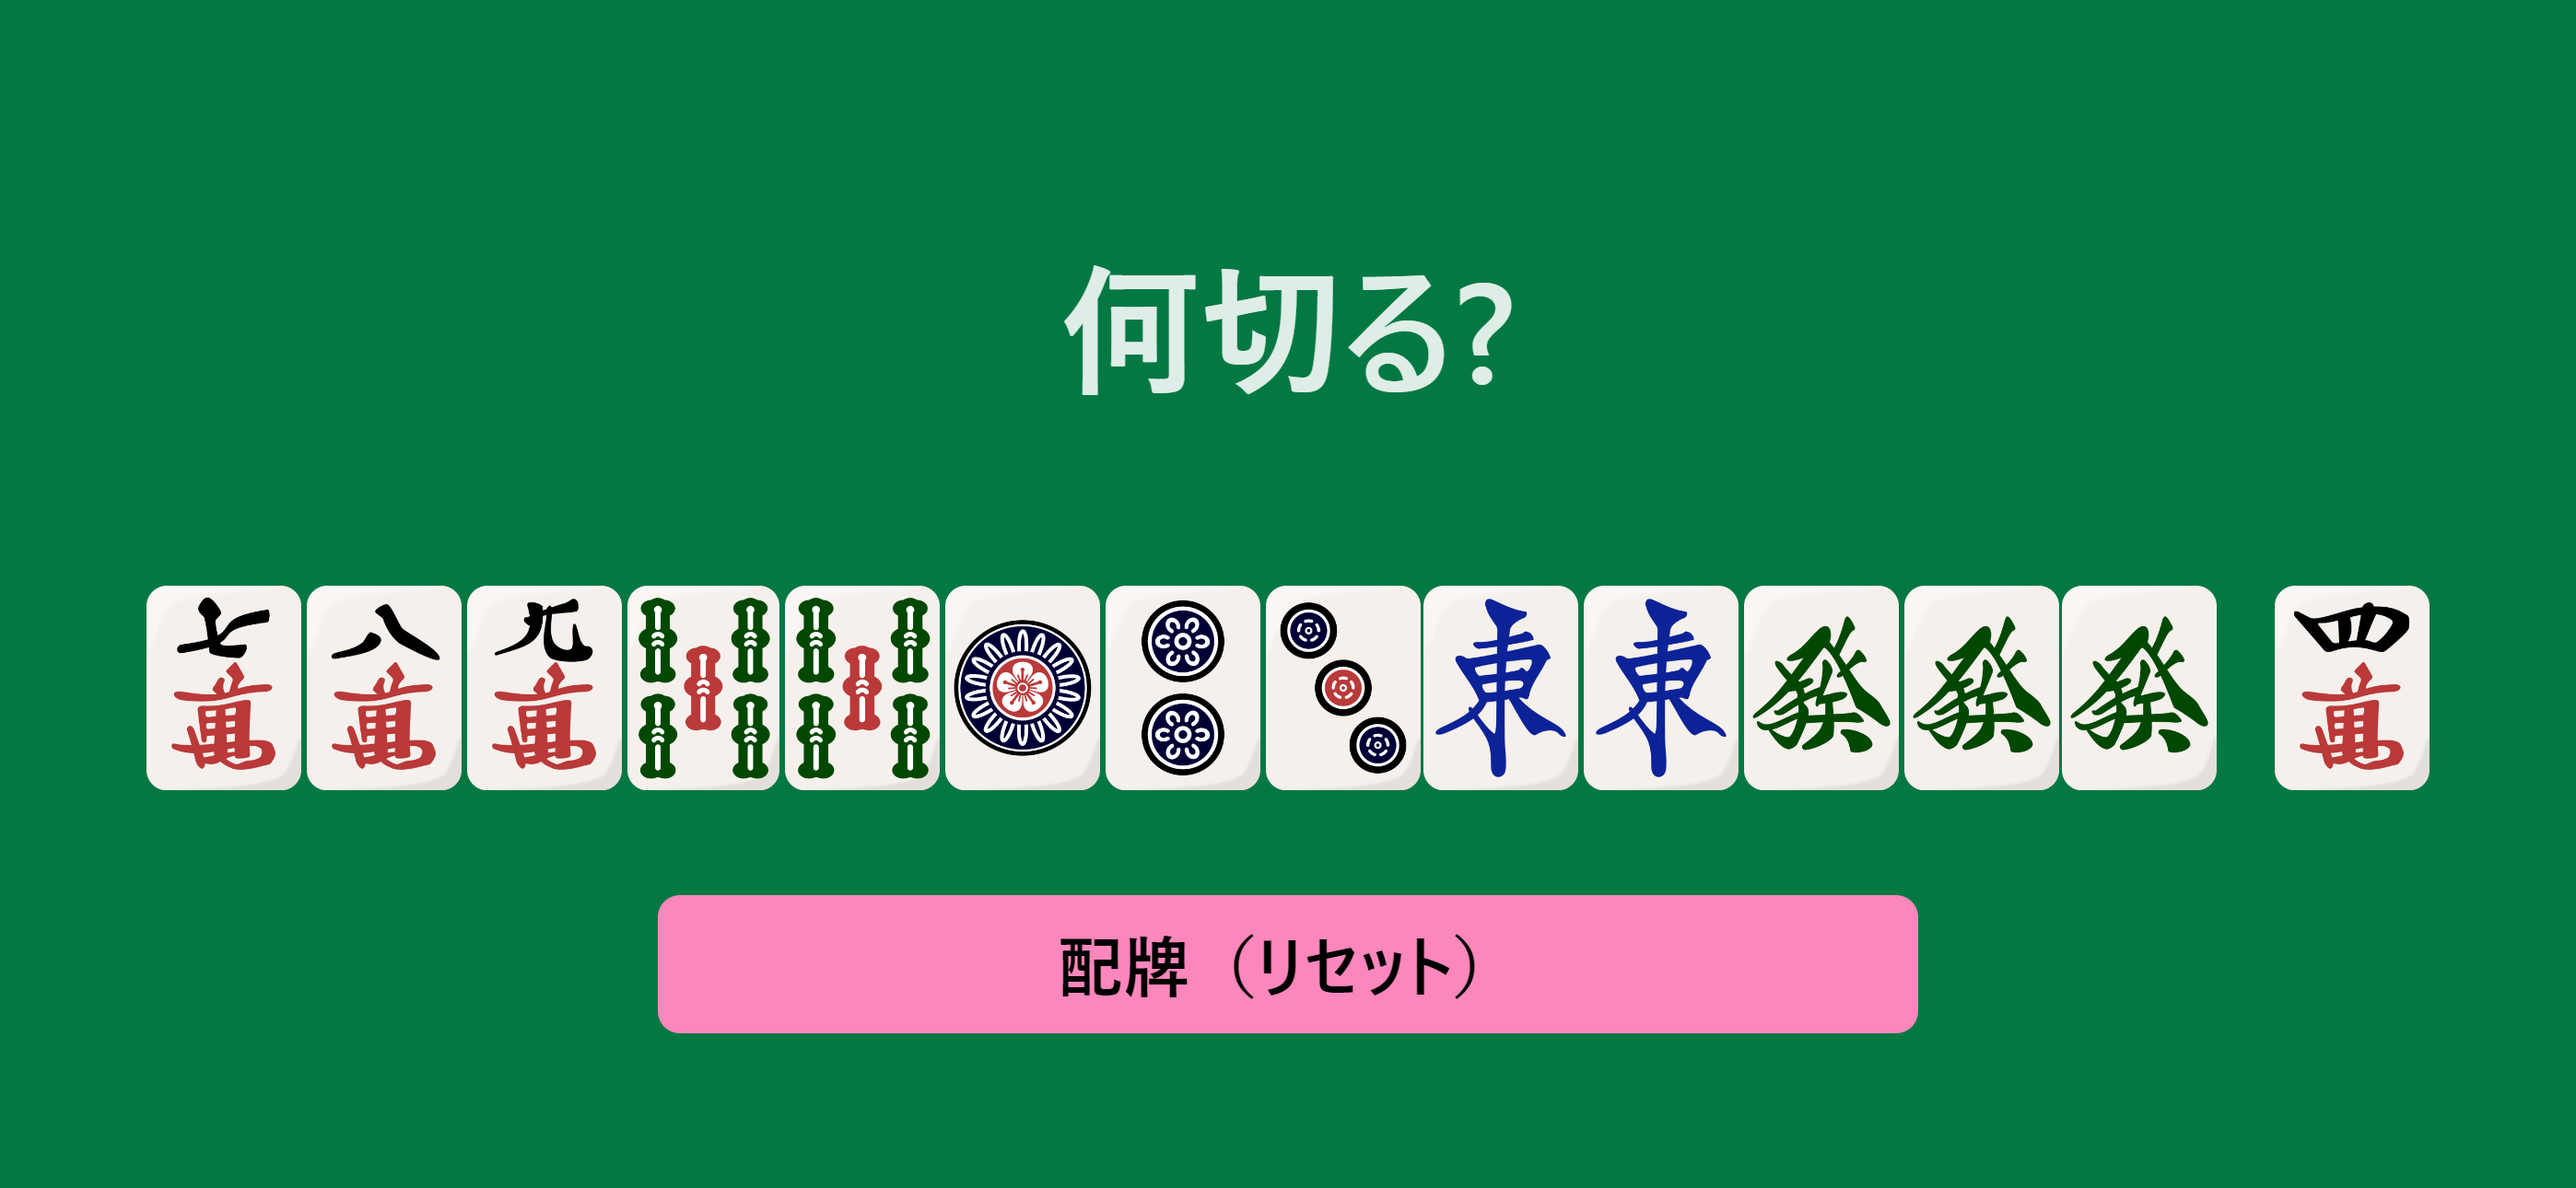
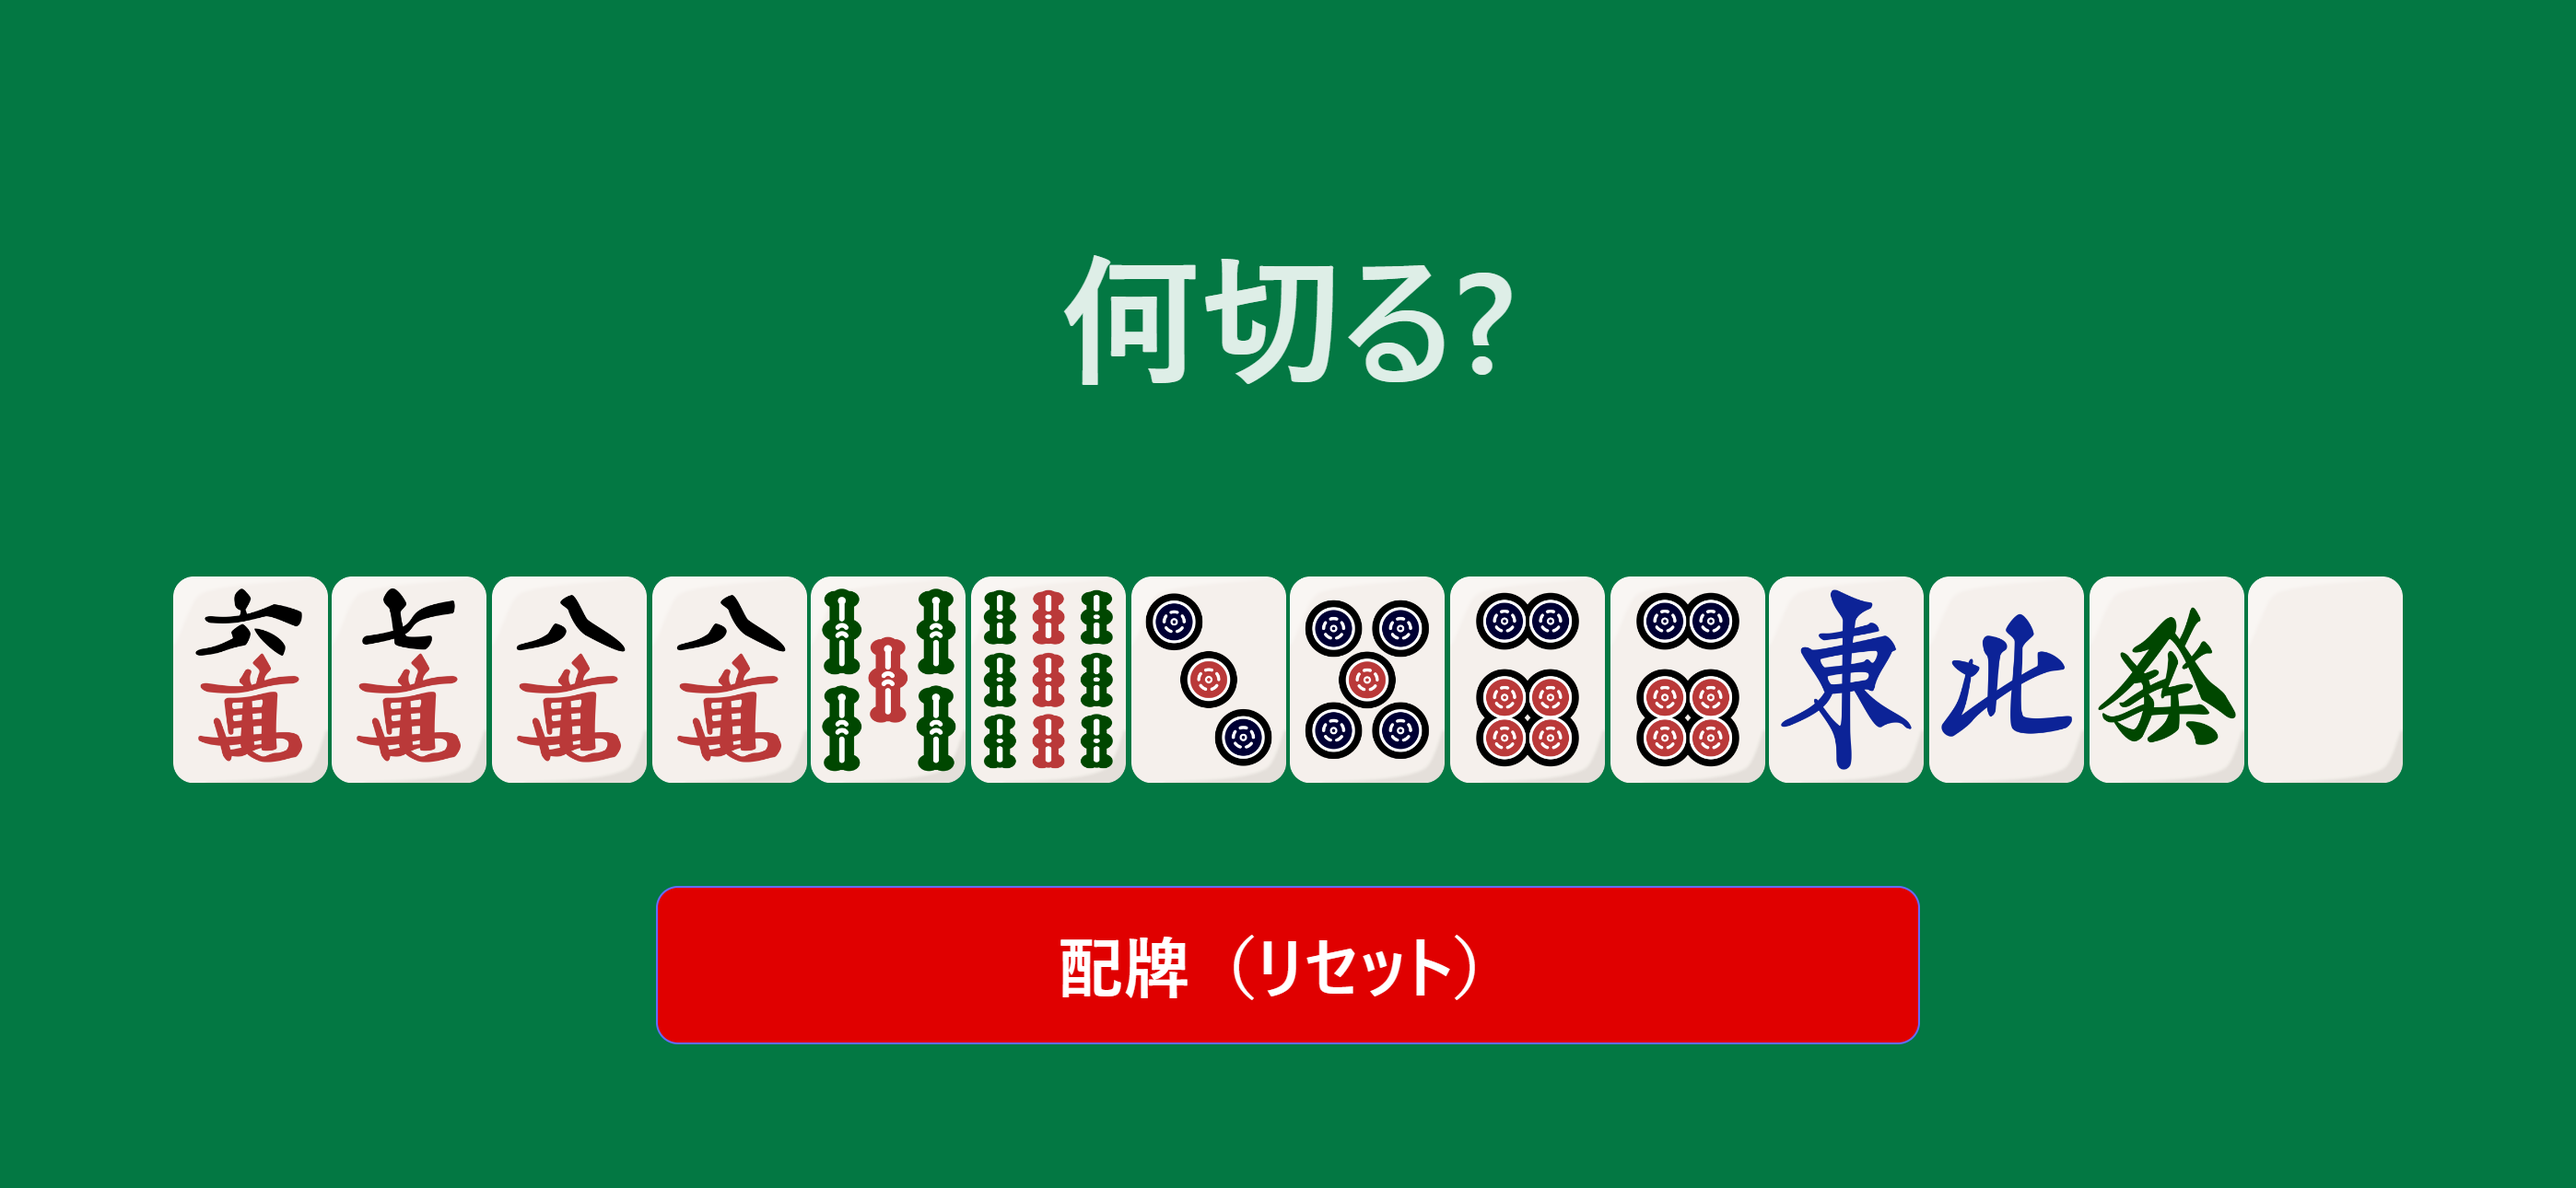
change button color

Changed region(s): [[0.0311, 0.4651, 0.9646, 0.6822], [0.2489, 0.7442, 0.7468, 0.8992], [0.4045, 0.2171, 0.5912, 0.3411]]

diff --git a/src/App.tsx b/src/App.tsx
@@ -31,14 +31,14 @@ function App() {
   const [drawn, setDrawn] = useState(false)
 
   const getHandClass = (idx: number) => {
-    const classList = ['hand']
+    const classes = ['hand']
     if (idx === selected) {
-      classList.push('selected')
+      classes.push('selected')
     }
     if (drawn && idx === hands.length - 1) {
-      classList.push('draw')
+      classes.push('draw')
     }
-    return classList.join(' ')
+    return classes.join(' ')
   }
 
   const handClicked = (e: PointerEvent<HTMLImageElement>) => {

diff --git a/src/App.scss b/src/App.scss
@@ -34,7 +34,7 @@
 
 .reset {
   width: 50%;
-  background-color: #fc87bc;
-  color: black;
+  background-color: #e00000;
+  color: white;
   font-size: 1.5em;
 }
